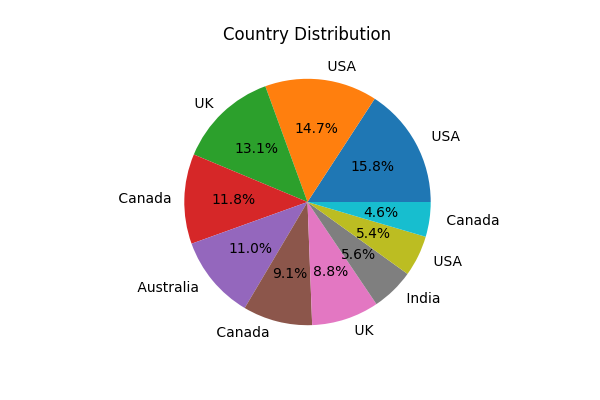
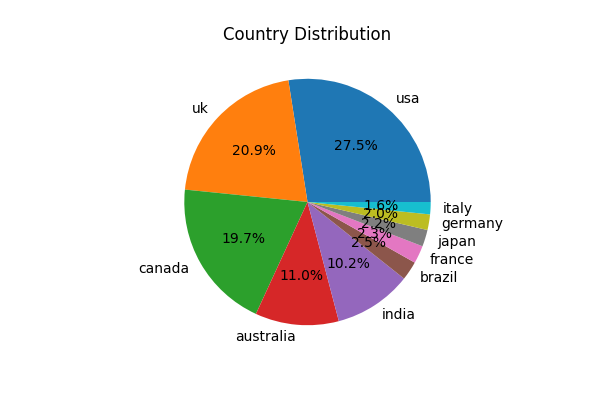
figure

Changed region(s): [[0.18, 0.15, 0.84, 0.87], [0.72, 0.33, 0.78, 0.36], [0.66, 0.24, 0.72, 0.27]]

diff --git a/visualizer.py b/visualizer.py
@@ -13,8 +13,9 @@ def plot_sentiment_distribution(df):
 
 def plot_country_distribution(df):
     plt.figure(figsize=(6,4))
-    top_sentiments = df['Country'].value_counts().head(10)
-    top_sentiments.plot(kind='pie', autopct='%1.1f%%')
+    df['Country'] = df['Country'].str.strip().str.lower()
+    country_counts = df['Country'].value_counts().head(10)
+    country_counts.plot(kind='pie', autopct='%1.1f%%')
     plt.title("Country Distribution")
     plt.ylabel("")
     plt.savefig("country_distribution.png")
